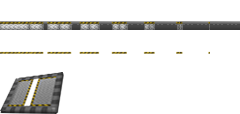
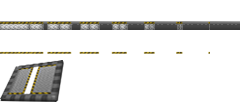
! Neuer Blackhawk ID: BKHK * Große Bodenluke: Titelbild angepasst. * Schreibfehler korrigiert. * Kleinere Änderungen.

diff --git a/ModernCombatFINALTRY.c4d/Vehicles.c4d/BlackHawk.c4d/Builder.c4d/Script.c b/ModernCombatFINALTRY.c4d/Vehicles.c4d/BlackHawk.c4d/Builder.c4d/Script.c
@@ -1,11 +1,16 @@
-/* Builder */
+/*-- Baustelle --*/
 
 #strict
 
 
+/* Initialisierung */
+
 protected func Initialize()
 {
-  CreateObject(H_HE, 0, 30, GetOwner());
+  //Blackhawk erstellen
+  CreateObject(BKHK, 0, 30, GetOwner());
+
+  //Verschwinden
   RemoveObject();
   return(true);
 }
